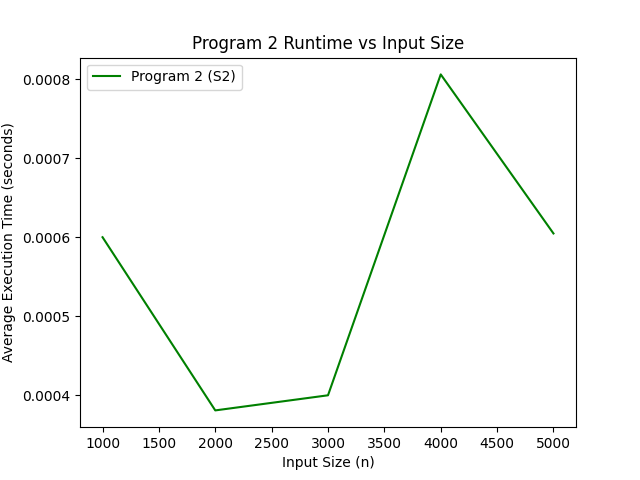
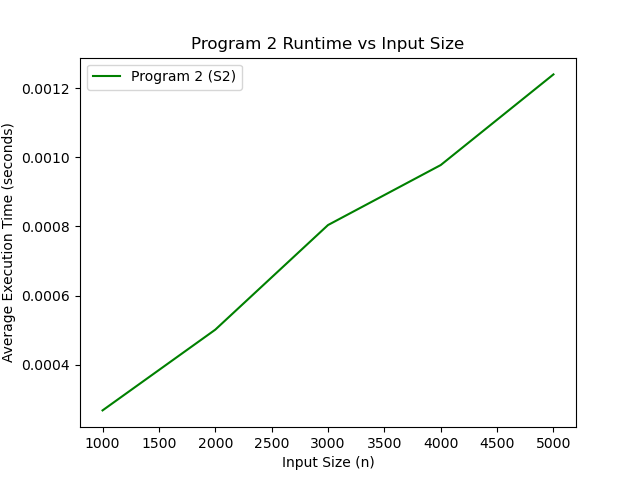
updated graphing and test cases

diff --git a/comparative_study.py b/comparative_study.py
@@ -1,16 +1,19 @@
 import time
 import random
 import matplotlib.pyplot as plt
-from bishoy1 import program1  # Import program1 function from program1.py
-from bishoy2 import program2  # Import program2 function from program2.py
+from program1 import program1  # Import program1 function from program1.py
+from program2 import program2  # Import program2 function from program2.py
 
-def generate_random_input(n: int, W: int):
+def generate_unimodal_input(n: int, W: int):
     """
-    Generate a random input with n paintings and platform width W.
-    Heights are random integers between 1 and 100.
+    Generate random unimodal input with n paintings and platform width W.
+    Heights follow a unimodal sequence: first decreasing, then increasing.
     Widths are random integers between 1 and W//2 to ensure the width constraint.
     """
-    heights = [random.randint(1, 100) for _ in range(n)]
+    min_index = random.randint(1, n-2)  # Ensure there's a valid turning point
+    decreasing_part = sorted([random.randint(1, 100) for _ in range(min_index)], reverse=True)
+    increasing_part = sorted([random.randint(1, 100) for _ in range(n - min_index)], reverse=False)
+    heights = decreasing_part + increasing_part
     widths = [random.randint(1, W // 2) for _ in range(n)]
     return heights, widths
 
@@ -40,14 +43,18 @@ def main():
 
         # Run 5 experiments for each n
         for _ in range(runs_per_n):
-            heights, widths = generate_random_input(n, W)
-            
+            # Generate input for Program1 (no need for unimodal pattern)
+            heights_p1, widths_p1 = generate_unimodal_input(n, W)
+
             # Measure runtime for Program1
-            time_p1 = measure_runtime(program1, n, W, heights, widths)
+            time_p1 = measure_runtime(program1, n, W, heights_p1, widths_p1)
             total_time_p1 += time_p1
 
+            # Generate unimodal input for Program2
+            heights_p2, widths_p2 = generate_unimodal_input(n, W)
+
             # Measure runtime for Program2
-            time_p2 = measure_runtime(program2, n, W, heights, widths)
+            time_p2 = measure_runtime(program2, n, W, heights_p2, widths_p2)
             total_time_p2 += time_p2
 
         # Compute the average time over the 5 runs
